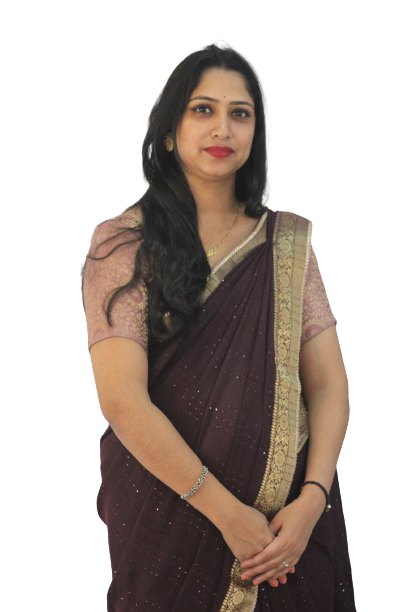
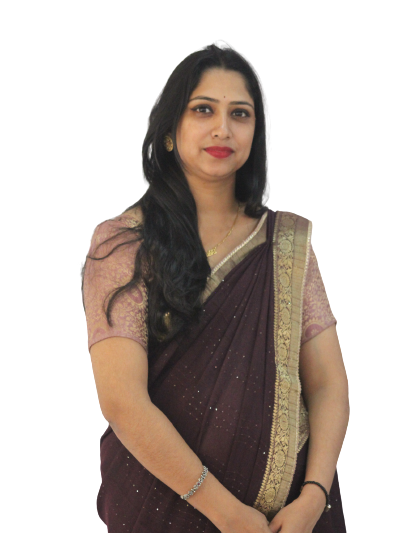
team page updated

diff --git a/components/TeamCard.vue b/components/TeamCard.vue
@@ -22,8 +22,8 @@ export default {
 
 <style lang="scss" scoped>
 .team-card {
-  width: 275px;
-  height: 370px;
+  width: 276px;
+  height: 365px;
   border-radius: 3px;
   margin: 2rem 1rem 1rem 1rem;
   background: #edf2f4;
